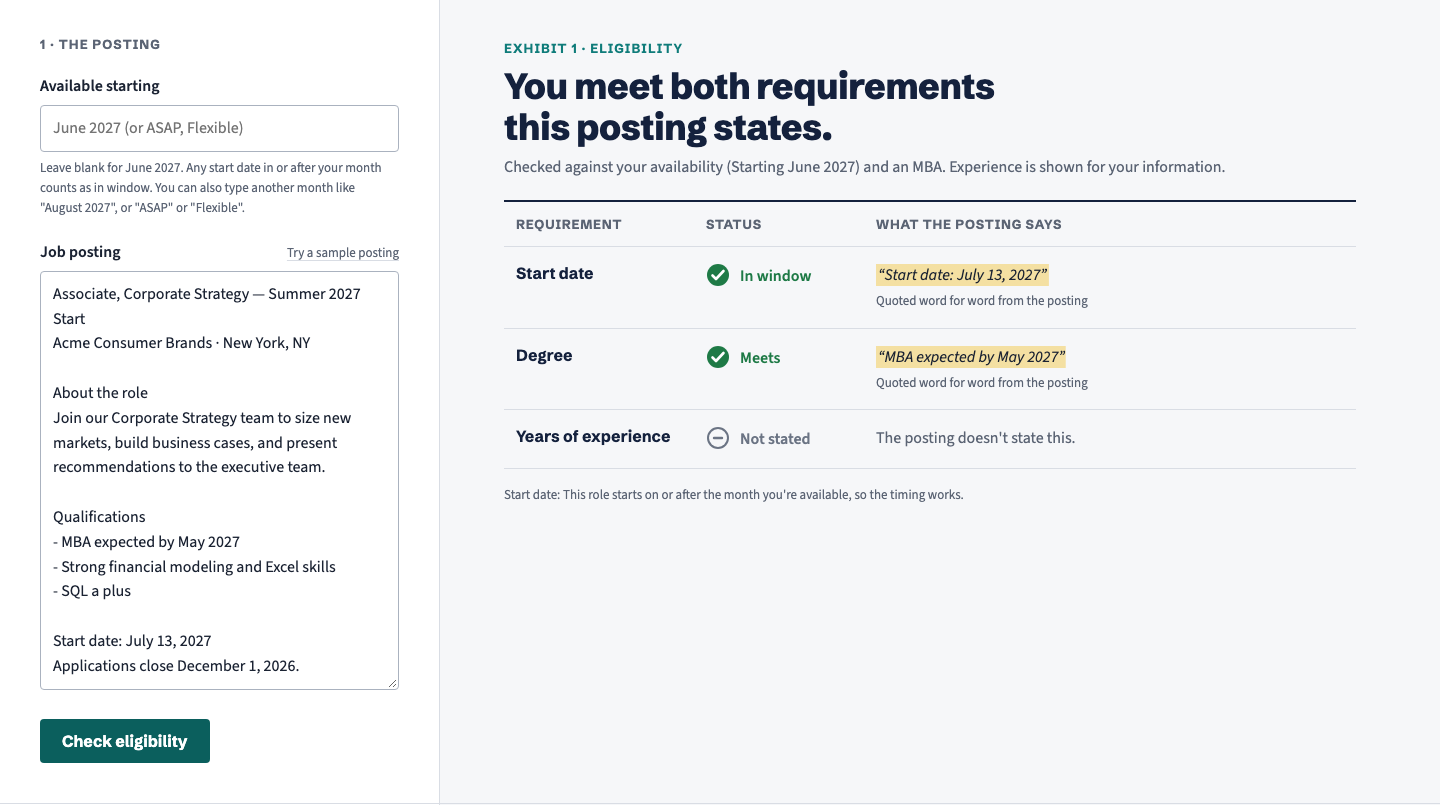
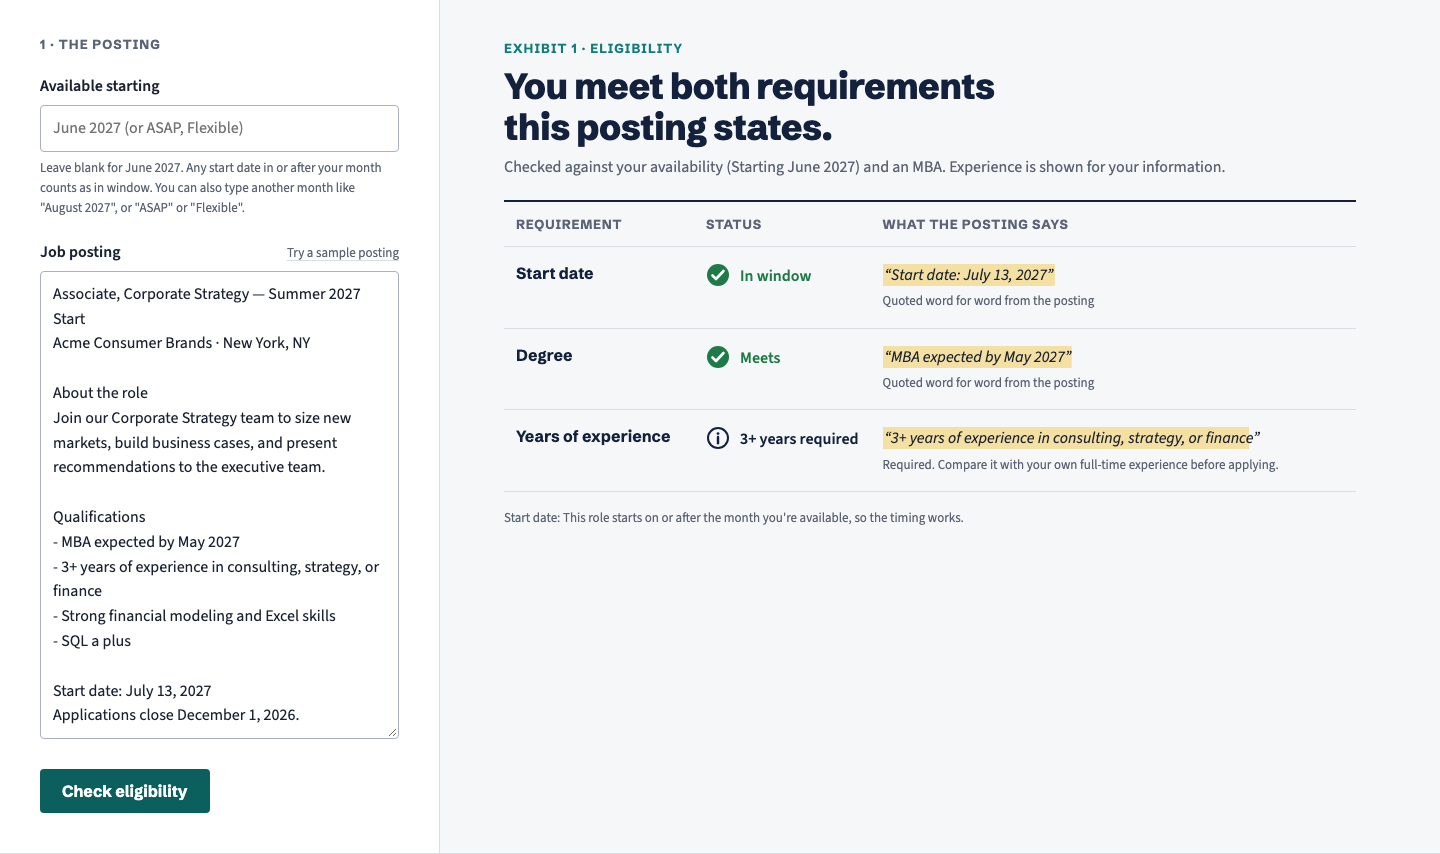
docs: eligibility screenshot with the years line; AGENTS.md notes auto-deploy

diff --git a/docs/index.html b/docs/index.html
@@ -260,10 +260,10 @@
         <strong>Live app:</strong> <a href="https://es4077-truefit.onrender.com">es4077-truefit.onrender.com</a> (free hosting; the first visit after a quiet spell can take 30–60 seconds to wake up). Screenshots below.
       </p>
       <figure>
-        <img src="images/app-build3-eligibility.png" width="1440" height="805" loading="lazy"
-             alt="TrueFit's eligibility check for the app's sample posting, Associate, Corporate Strategy at a made-up company, Acme Consumer Brands. Action title: 'You meet both requirements this posting states.' Rows: Start date, In window, quoting 'Start date: July 13, 2027'; Degree, Meets, quoting 'MBA expected by May 2027'; Years of experience, Not stated. There is no Sponsorship row because the posting doesn't mention sponsorship." />
+        <img src="images/app-build3-eligibility.png" width="1440" height="854" loading="lazy"
+             alt="TrueFit's eligibility check for the app's sample posting, Associate, Corporate Strategy at a made-up company, Acme Consumer Brands. Action title: 'You meet both requirements this posting states.' Rows: Start date, In window, quoting 'Start date: July 13, 2027'; Degree, Meets, quoting 'MBA expected by May 2027'; Years of experience, shown for information as '3+ years required', quoting '3+ years of experience in consulting, strategy, or finance'. There is no Sponsorship row because the posting doesn't mention sponsorship." />
         <figcaption class="meta">
-          Eligibility check (Nov 18, 2026), real model output for the app's sample posting. Start date and degree get a verdict, each with the line it came from. The Sponsorship row now appears only when a posting mentions sponsorship, so it isn't shown here.
+          Eligibility check (Nov 18, 2026), real model output for the app's sample posting. Start date and degree get a verdict; years of experience is shown for information. Each row quotes the line it came from. The Sponsorship row now appears only when a posting mentions sponsorship, so it isn't shown here.
         </figcaption>
       </figure>
       <figure>

diff --git a/AGENTS.md b/AGENTS.md
@@ -55,8 +55,8 @@
 9. **Stage files by name, and look for " 2" copies** *(from a real mistake, Nov 18)*: this repo sits on an iCloud-synced Desktop, which makes copies like `rate_limit 2.py` when files change mid-sync. `git add -A` committed two of them into PR #47. Add files by name, and check `git status` for names ending in " 2" before committing.
 
 ## 5. Shipping
-- **Live site:** Render web service `truefit` (free plan, no database), deployed from the public repo address. https://es4077-truefit.onrender.com
-- **How a change ships:** branch → pull request → `uv run pytest` passes → the student approves the merge → in Render, **Manual Deploy → Deploy latest commit** (the class organization hasn't approved Render's GitHub access, so merges don't deploy on their own).
+- **Live site:** Render web service `truefit` (free plan, no database), connected to this GitHub repo. https://es4077-truefit.onrender.com
+- **How a change ships:** branch → pull request → `uv run pytest` passes → the student approves the merge → Render deploys `main` on its own (Auto-Deploy on commit, live in about 2 minutes; turned on Nov 18 after the class organization approved Render's GitHub access). **Manual Deploy → Deploy latest commit** in Render still works if a deploy needs a retry.
 - **After a deploy:** open the live URL, run a sample posting through "Check eligibility," and confirm the event in PostHog.
 - **Secrets:** `OPENROUTER_API_KEY`, `OPENROUTER_MODEL`, `POSTHOG_PROJECT_TOKEN`, `POSTHOG_HOST`, `PYTHON_VERSION`, `ENVIRONMENT=production` live in Render's environment settings, never in the repo. `render.yaml` lists them without values.
 - **Rollback:** in Render, open **Events**, pick the last good deploy, and choose **Rollback**. Then fix forward on a branch.
